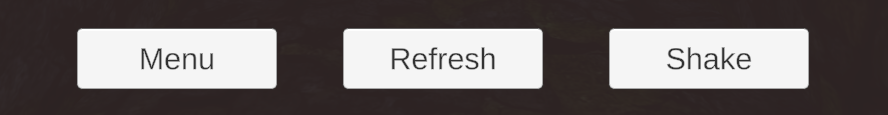
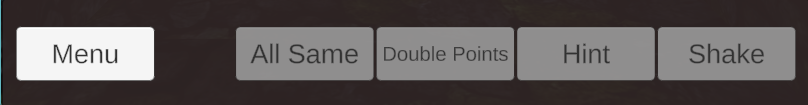
README Updated

diff --git a/README.md b/README.md
@@ -82,22 +82,17 @@ In this mode, the player can play the game without any restrictions. The objects
 The player can interact with the objects by clicking on them. When the player clicks on an object, the object will be held on the cursor. The player can release the object by clicking again. If the player releases the object on a correct pair, the objects will be destroyed. If the player releases the object on an incorrect pair, the object will be thrown out.\
 ![Object Interaction](Images/ObjectInteraction.gif)
 
-#### Golden Object
-In the game, there is a golden object that can be spawned randomly with 10% chance. The golden object is a special object that can be matched with any object. If the player matches the golden object with another object, the player will get a advanced skill.\
-![Golden Object](Images/GoldenObject.gif)
-
 #### Skills
-There are 2 types of skills, total of 4 skills in the game:
-- **Basic Skill**: This skill allows player to shake the objects in the game area. The player can use this skill by pressing the `Shake` button. This skill can be used any time, but it has a cooldown time of 5 seconds.\
-![Basic Skill](Images/BasicSkill.gif)
+There are total of 4 skills in the game:
+- **Shake**: This skill allows player to shake the objects in the game area. The player can use this skill by pressing the `Shake` button. This skill can be used any time, but it has a cooldown time of 5 seconds.\
+![Basic Skill](Images/ShakeSkill.gif)
+- **Hint**: This skill shows a pair of objects by highlighting them. The player can use this skill by pressing the `Hint` button. This skill can be used any time, but it has a cooldown time of 5 seconds.\
+![Hint](Images/HintSkill.gif)\
+- **Double Points**: When this skill is used, all the objects starts moving and the player has to match them. Every correct pair will give the player double points. This skill can used any time, but it has a cooldown time of 5 seconds.\
+![Refresh](Images/DoublePointsSkill.gif)\
+- **All Same**: This skill makes all objects in the game area the same. This skill can be used any time, but it has a cooldown time of 5 seconds.\
+![All Same](Images/AllSameSkill.gif)
 
-- **Advanced Skills**: There are 3 advanced skills that can be obtained by matching the golden object with another object. These skills are:
-    - **Hint**: This skill shows a pair of objects by highlighting them. The player can use this skill by pressing the `Hint` button.\
-    ![Hint](Images/HintSkill.gif)\
-    - **Refresh**: This skill refreshes the game area by deleting all objects and spawning new ones. The player can use this skill by pressing the `Refresh` button.\
-    ![Refresh](Images/RefreshSkill.gif)\
-    - **All Same**: This skill makes all objects in the game area the same. This skill has 4% chance to be obtained. The player can use this skill by pressing the `All Same` button.\
-    ![All Same](Images/AllSameSkill.gif)
 
 ### UI Elements
 #### Main Menu
